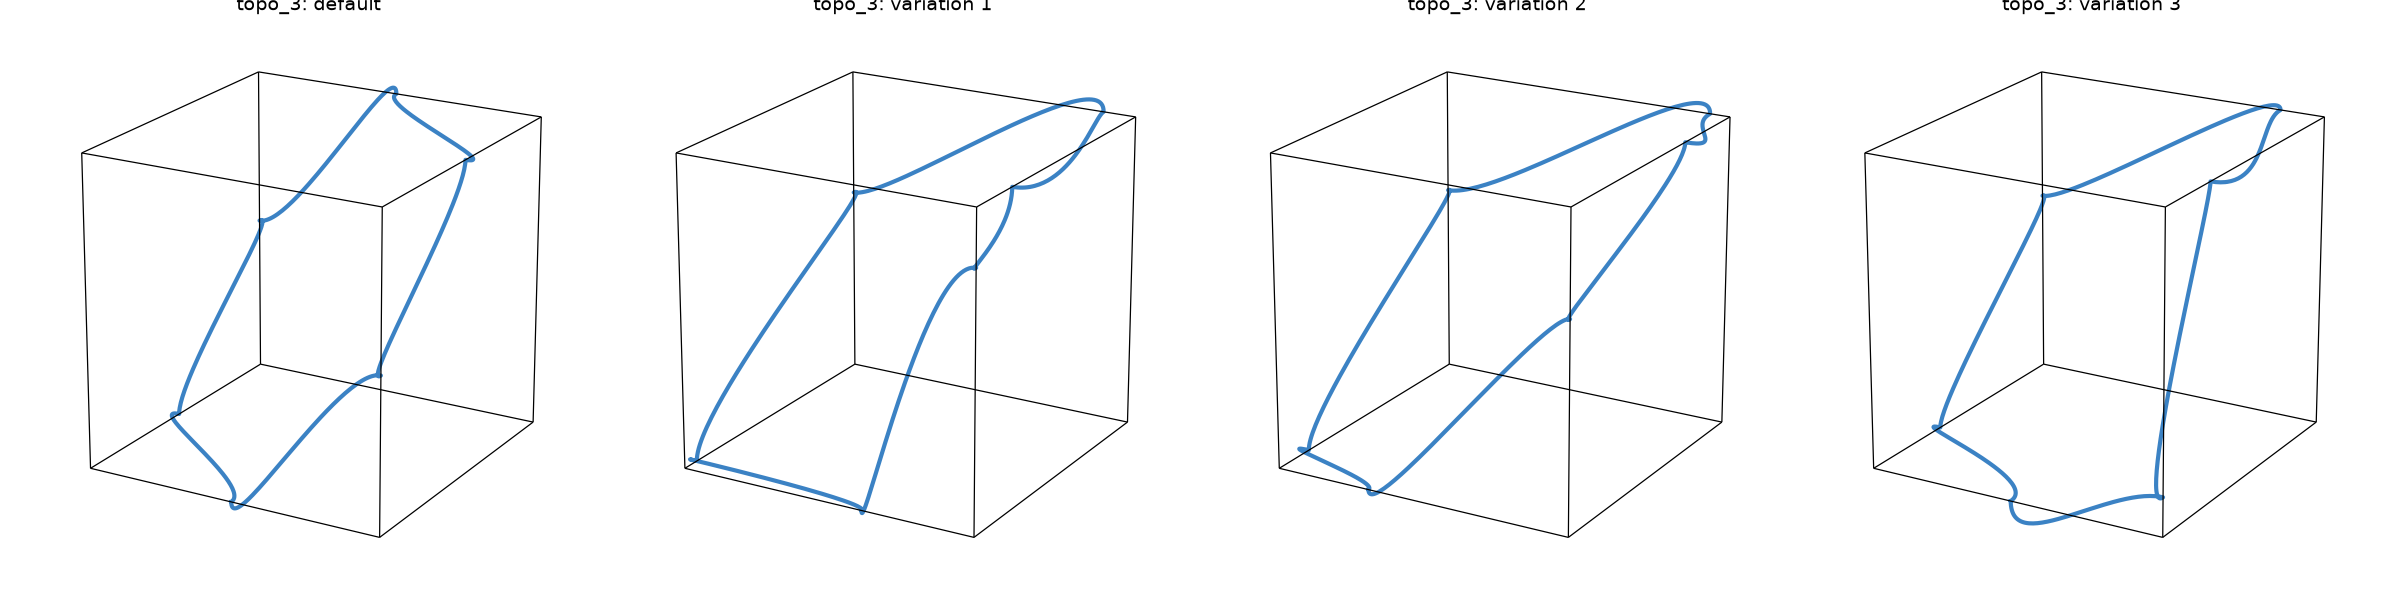
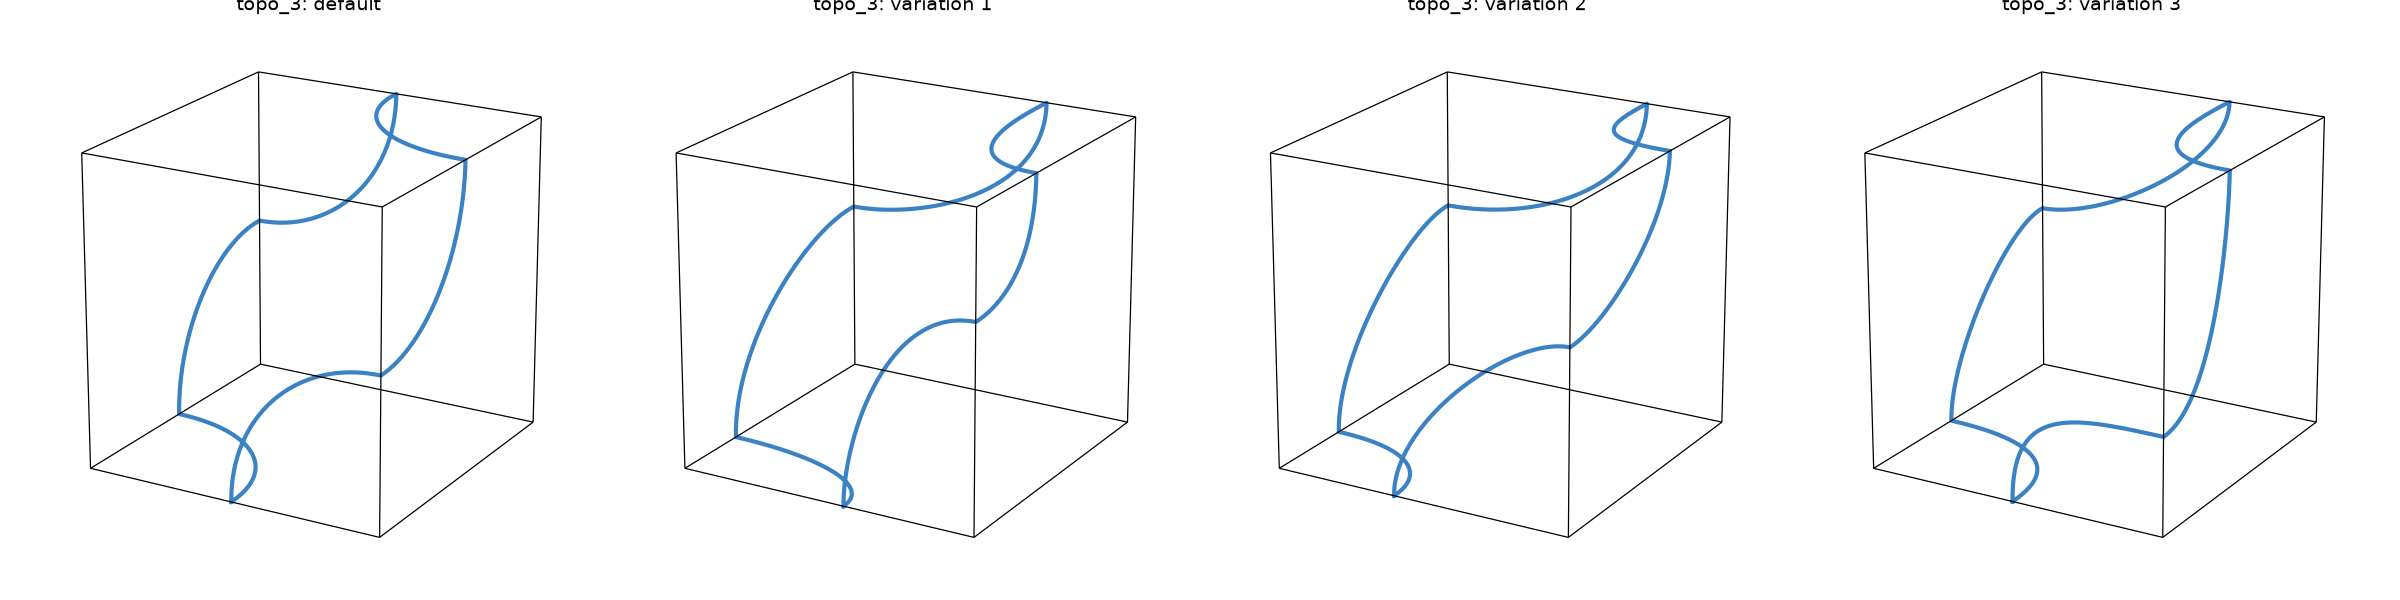
boundary curve added

diff --git a/TPMS/scripts/topo3_boundary_diagram.py b/TPMS/scripts/topo3_boundary_diagram.py
@@ -1,0 +1,159 @@
+"""topo_3 boundary-curve diagram, reproducing the paper's Fig. 6 construction.
+
+Pipeline (all from this repo's modules, which implement the paper directly):
+  tpms/topology.py  -- enumerate the 20 unique 1/8-cube topologies (Sec. 2.2)
+  tpms/spline.py    -- cubic Hermite curve, paper Eq. 2
+  tpms/boundary.py  -- per-node position/derivative parameters (Sec. 2.2
+                       "Boundary geometric variation"), constrained exactly as
+                       the paper states: node position stays on its cube edge,
+                       derivatives stay tangent to the cube face.
+
+The construction, panel by panel:
+  1. Topology graph: each node is a boundary/cube-edge crossing, each arc a
+     face crossing, drawn as straight chords (paper Fig. 5 schematic style).
+  2. The same chords (grey, dashed) with the Hermite tangent vectors at every
+     node -- each perpendicular to that node's cube edge and tangent to the
+     face carrying the arc. These are what bend each straight chord into a
+     bulging arc; the resulting curve is drawn in blue over them.
+  3-4. Geometric variations, from sampling node positions/derivatives in the
+     paper's own Table A.1 ranges.
+
+topo_3 is one of only three 1/8-cube topologies (with topo_1 and topo_6) that
+the paper notes is triply periodic on its own (Sec. 2.2), and it is the
+topology behind the FRD-like shell-lattice family (topo_3_rrr, Fig. 10d).
+
+Usage:
+    python scripts/topo3_boundary_diagram.py
+"""
+import os
+import sys
+
+sys.path.insert(0, os.path.join(os.path.dirname(__file__), '..'))
+
+import matplotlib.pyplot as plt
+import numpy as np
+from mpl_toolkits.mplot3d.art3d import Line3DCollection
+
+from tpms import boundary as B
+from tpms import topology as T
+
+TOPO_INDEX = 3  # 1-indexed, matches out/topologies.png and paper Fig. 5
+
+CURVE_C = '#2f7fc1'
+CHORD_C = '#b0b0b0'
+NODE_C = '#c4453b'
+VEC_C = '#2e9e4f'
+
+
+def plot_cube(ax):
+    lines = [[T.VERTICES[a], T.VERTICES[b]] for a, b in T.EDGES]
+    ax.add_collection3d(Line3DCollection(lines, colors='black', linewidths=0.7))
+    ax.set_xlim(0, 1); ax.set_ylim(0, 1); ax.set_zlim(0, 1)
+    ax.set_box_aspect((1, 1, 1))
+    ax.set_axis_off()
+    ax.view_init(elev=20, azim=-60)
+
+
+def draw_nodes(ax, topo, params):
+    for e in topo.active_edges():
+        p = B.node_position(e, params[e].s)
+        ax.scatter(*p, color=NODE_C, s=30, depthshade=False, zorder=5)
+
+
+def draw_chords(ax, topo, params, **kw):
+    """Straight chords node->node: the topology graph before any curving."""
+    segs = []
+    for loop in B.find_loops(topo):
+        for i in range(len(loop)):
+            a, b = loop[i], loop[(i + 1) % len(loop)]
+            segs.append([B.node_position(a, params[a].s),
+                         B.node_position(b, params[b].s)])
+    ax.add_collection3d(Line3DCollection(segs, **kw))
+
+
+def draw_curve(ax, topo, params, lw=2.6):
+    for c in B.build_boundary_curves(topo, params, n_samples=96):
+        cc = np.concatenate([c, c[:1]], axis=0)
+        ax.plot(cc[:, 0], cc[:, 1], cc[:, 2], color=CURVE_C, linewidth=lw, zorder=4)
+
+
+def draw_tangents(ax, topo, params, scale=0.30):
+    """The Hermite tangent vectors (Eq. 2 d1/d2) at every node, i.e. the
+    vectors that bend each straight chord into its arc."""
+    for loop in B.find_loops(topo):
+        for i in range(len(loop)):
+            a, b = loop[i], loop[(i + 1) % len(loop)]
+            face = T.shared_face(a, b)
+            pa = B.node_position(a, params[a].s)
+            pb = B.node_position(b, params[b].s)
+            # emergent tangent at a (points into the face), incident tangent at
+            # b (still along direction of travel, so it points back out through
+            # b's cube edge) -- matching build_boundary_curves.
+            d1 = B.node_face_direction(a, face) * params[a].d_out
+            d2 = -B.node_face_direction(b, face) * params[b].d_in
+            for p, d in ((pa, d1), (pb, -d2)):
+                v = d * scale
+                ax.quiver(p[0], p[1], p[2], v[0], v[1], v[2], color=VEC_C,
+                          linewidth=1.5, arrow_length_ratio=0.3, zorder=6)
+
+
+def main():
+    reps, n_valid = T.enumerate_topologies(include_empty_face_state=False)
+    assert n_valid == 256 and len(reps) == 20, (
+        f"topology enumeration mismatch: {n_valid}/{len(reps)}, paper: 256/20")
+    topo = reps[TOPO_INDEX - 1]
+    n_nodes = len(topo.active_edges())
+    print(f"topo_{TOPO_INDEX}: {n_nodes} nodes, {len(topo.arcs)} arcs, "
+          f"{topo.n_loops()} loop(s); d_circular={B.D_CIRCULAR:.4f}")
+
+    default_params = B.default_params(topo)
+    rng = np.random.default_rng(3)
+
+    fig = plt.figure(figsize=(17, 4.6))
+
+    # (a) topology graph
+    ax = fig.add_subplot(1, 4, 1, projection='3d')
+    plot_cube(ax)
+    draw_chords(ax, topo, default_params, colors=CURVE_C, linewidths=2.2)
+    draw_nodes(ax, topo, default_params)
+    ax.set_title(f"(a) topo_{TOPO_INDEX} topology graph\n"
+                 f"{n_nodes} nodes, {len(topo.arcs)} arcs, {topo.n_loops()} closed loop",
+                 fontsize=9.5)
+
+    # (b) construction: chords + tangent vectors + resulting curve
+    ax = fig.add_subplot(1, 4, 2, projection='3d')
+    plot_cube(ax)
+    draw_chords(ax, topo, default_params, colors=CHORD_C, linewidths=1.2,
+                linestyles='dashed')
+    draw_tangents(ax, topo, default_params)
+    draw_curve(ax, topo, default_params)
+    draw_nodes(ax, topo, default_params)
+    ax.set_title("(b) Hermite construction (Eq. 2)\n"
+                 "tangent vectors bend each chord into an arc", fontsize=9.5)
+
+    # (c),(d) geometric variations
+    for i in range(2):
+        ax = fig.add_subplot(1, 4, 3 + i, projection='3d')
+        plot_cube(ax)
+        params = B.random_params(topo, rng)
+        draw_curve(ax, topo, params)
+        draw_nodes(ax, topo, params)
+        ax.set_title(f"({'cd'[i]}) geometric variation {i + 1}\n"
+                     "node positions + derivatives varied", fontsize=9.5)
+
+    fig.suptitle(
+        "topo_3 boundary curve construction (paper Sec. 2.2 \"Boundary geometric variation\", Eq. 2, Fig. 6)\n"
+        "Node positions constrained to their cube edge; derivatives constrained tangent to the cube face. "
+        "Parameter ranges from Table A.1.",
+        fontsize=11, y=1.04)
+    fig.tight_layout()
+
+    out = os.path.join(os.path.dirname(__file__), '..', 'out',
+                       'topo3_boundary_diagram.png')
+    os.makedirs(os.path.dirname(out), exist_ok=True)
+    fig.savefig(out, dpi=170, bbox_inches='tight')
+    print(f"Saved {out}")
+
+
+if __name__ == '__main__':
+    main()

diff --git a/TPMS/tpms/boundary.py b/TPMS/tpms/boundary.py
@@ -10,9 +10,15 @@ A.1: N position + 2N derivative parameters for N nodes):
     d_in   -- incident derivative magnitude (curve arriving at this node)
     d_out  -- emergent derivative magnitude (curve leaving this node)
 Derivative *directions* are fixed by convention to be perpendicular to the
-cube edge, tangent to the face, pointing into the face interior -- the
-standard convention for smoothly filleted corner curves and consistent with
-the bulging patch shapes in Fig. 6/8 of the paper.
+cube edge and tangent to the face containing the arc -- exactly the paper's
+stated constraint ("the derivatives are varied while being constrained to stay
+on the cube faces", Sec. 2.2). Because Eq. 2's d1 = P'(0) and d2 = P'(1) are
+both tangents *in the direction of travel*, the emergent derivative at the
+start node points into the face interior while the incident derivative at the
+end node points back out through that node's cube edge; see the sign flip in
+`build_boundary_curves`. With this convention an arc between two mid-edge
+nodes sharing a cube corner is an exact quarter circle at d = `D_CIRCULAR`,
+reproducing the strongly-bulging fillet arcs of the paper's Fig. 6.
 """
 import itertools
 from dataclasses import dataclass
@@ -77,8 +83,23 @@ def find_loops(topo: T.Topology):
     return loops
 
 
-def random_params(topo: T.Topology, rng=None, s_range=(-0.45, 0.45),
-                   d_range=(0.2, 0.6)):
+# Paper Table A.1 sets the 1/8 design space as a 2x2x2 mm cube, with node
+# position offsets in [-0.45, 0.45] mm and derivative magnitudes in [1.0, 2.0]
+# mm. Our 1/8 cube is the unit cube [0,1]^3, so those ranges scale by 1/2.
+S_RANGE = (-0.225, 0.225)
+D_RANGE = (0.5, 1.0)
+
+# A cubic Hermite arc joining two points at distance r from a shared cube
+# corner reproduces the quarter circle of radius r when the tangent magnitude
+# is 3 * (4/3)*(sqrt(2)-1)*r = 4*(sqrt(2)-1)*r ~= 1.657*r (the standard cubic-
+# Bezier circle approximation, converted from Bezier control-point offset to
+# Hermite tangent by the factor 3). For default mid-edge nodes r = 0.5, giving
+# ~0.828 -- the roundest arc this parameterization can make, and comfortably
+# inside the paper's own D_RANGE above.
+D_CIRCULAR = 4.0 * (np.sqrt(2.0) - 1.0) * 0.5
+
+
+def random_params(topo: T.Topology, rng=None, s_range=S_RANGE, d_range=D_RANGE):
     rng = rng or np.random.default_rng()
     params = {}
     for e in topo.active_edges():
@@ -90,7 +111,11 @@ def random_params(topo: T.Topology, rng=None, s_range=(-0.45, 0.45),
     return params
 
 
-def default_params(topo: T.Topology, s=0.0, d=0.4):
+def default_params(topo: T.Topology, s=0.0, d=None):
+    """Default geometry: nodes at cube-edge midpoints, tangent magnitudes set
+    to the value that makes each arc an exact quarter circle."""
+    if d is None:
+        d = D_CIRCULAR
     return {e: NodeParams(s=s, d_in=d, d_out=d) for e in topo.active_edges()}
 
 
@@ -108,8 +133,15 @@ def build_boundary_curves(topo: T.Topology, params, n_samples=64):
             pa, pb = params[a], params[b]
             p1 = node_position(a, pa.s)
             p2 = node_position(b, pb.s)
+            # Hermite tangents are both "direction of travel" along the curve
+            # (Eq. 2: d1 = P'(0), d2 = P'(1)). Leaving node `a` the curve heads
+            # *into* the face interior; arriving at node `b` it is still heading
+            # in its direction of travel, i.e. *out* through b's cube edge --
+            # hence the sign flip on d2. Using +into-face for d2 as well makes
+            # P'(1) point back the way the curve came, producing an S-hook at
+            # every arrival node and flattening the arc (see module docstring).
             d1 = node_face_direction(a, face_idx) * pa.d_out
-            d2 = node_face_direction(b, face_idx) * pb.d_in
+            d2 = -node_face_direction(b, face_idx) * pb.d_in
             t = np.linspace(0, 1, n_samples, endpoint=False)
             segs.append(spline.hermite_eval(p1, d1, p2, d2, t))
         curves.append(np.concatenate(segs, axis=0))

diff --git a/TPMS/tests/test_validation.py b/TPMS/tests/test_validation.py
@@ -30,6 +30,68 @@ def test_topology_loops_are_closed():
         assert all(d == 2 for d in degree.values())
 
 
+def test_boundary_arc_is_exact_quarter_circle():
+    """Eq. 2's d1=P'(0) and d2=P'(1) are both tangents in the direction of
+    travel. Regression guard for a sign error where d2 pointed back into the
+    face the curve came from, putting an S-hook at each arrival node and
+    flattening every arc toward its chord.
+
+    With the correct convention an arc between two mid-edge nodes sharing a
+    cube corner is the exact quarter circle through them at d = D_CIRCULAR.
+    """
+    from tpms import boundary as B
+    from tpms import spline
+
+    # z=0 face, corner (0,0,0): nodes at (0.5,0,0) and (0,0.5,0), both at
+    # radius 0.5 from the corner.
+    p1 = np.array([0.5, 0.0, 0.0])
+    p2 = np.array([0.0, 0.5, 0.0])
+    m = B.D_CIRCULAR
+    d1 = np.array([0.0, 1.0, 0.0]) * m      # leaves p1 into the face
+    d2 = np.array([-1.0, 0.0, 0.0]) * m     # arrives at p2 still travelling -x
+    c = spline.hermite_eval(p1, d1, p2, d2, np.linspace(0, 1, 400))
+    radius = np.linalg.norm(c[:, :2], axis=1)
+    assert np.abs(radius - 0.5).max() < 1e-3, (
+        f"arc deviates from the quarter circle by "
+        f"{np.abs(radius - 0.5).max():.4f}")
+
+
+def test_boundary_curves_are_closed_in_bounds_and_non_backtracking():
+    """Every topology's boundary curve must close up, stay inside the 1/8
+    cube, and have no arc that reverses against its own chord (the paper
+    assumes boundaries free from self-intersection, Sec. 2.2)."""
+    from tpms import boundary as B
+    from tpms import spline
+
+    reps, _ = T.enumerate_topologies(include_empty_face_state=False)
+    rng = np.random.default_rng(0)
+    for topo in reps:
+        for params in (B.default_params(topo), B.random_params(topo, rng)):
+            for curve in B.build_boundary_curves(topo, params, n_samples=128):
+                steps = np.linalg.norm(
+                    np.diff(np.vstack([curve, curve[:1]]), axis=0), axis=1)
+                # closed: the wrap-around step is just another sampling step
+                assert steps.max() < 3 * np.median(steps), "curve is not closed"
+                assert curve.min() > -1e-9 and curve.max() < 1 + 1e-9, \
+                    "curve leaves the 1/8 cube"
+
+            for loop in B.find_loops(topo):
+                for i in range(len(loop)):
+                    a, b = loop[i], loop[(i + 1) % len(loop)]
+                    face = T.shared_face(a, b)
+                    pa = B.node_position(a, params[a].s)
+                    pb = B.node_position(b, params[b].s)
+                    da = B.node_face_direction(a, face) * params[a].d_out
+                    db = -B.node_face_direction(b, face) * params[b].d_in
+                    _, C1, C2, C3 = spline.hermite_coeffs(pa, da, pb, db)
+                    t = np.linspace(0, 1, 200)[:, None]
+                    deriv = C1 + 2 * C2 * t + 3 * C3 * t ** 2
+                    chord = pb - pa
+                    proj = deriv @ (chord / np.linalg.norm(chord))
+                    assert proj.min() >= 0, \
+                        f"arc {a}->{b} backtracks against its chord"
+
+
 def test_homogenization_recovers_base_material_on_solid_cube():
     density = np.ones((8, 8, 8))
     CH = H.homogenize(density, E0=1.0, nu0=0.3, cell_size=2.0)

diff --git a/TPMS/PROGRESS.md b/TPMS/PROGRESS.md
@@ -13,7 +13,7 @@ A full-pipeline reimplementation in `research/TPMS/`, covering every stage of th
 | Stage | Status | Key validation |
 |---|---|---|
 | **Boundary topology enumeration** (1/8-cube graph search) | Done | Finds exactly **256** raw candidate topologies and **20** unique ones after symmetry reduction — matches the paper's reported counts exactly |
-| **Hermite-spline boundary geometry** + unit-cell symmetry synthesis | Done | Produces smooth, closed boundary curves; visually consistent with paper Fig. 6 |
+| **Hermite-spline boundary geometry** + unit-cell symmetry synthesis | Done (**corrected 2026-08-20**, see §4) | Arcs are now exact quarter circles at the default derivative magnitude (0.000 radial deviation), matching Fig. 6's bulging fillets; all 20 topologies verified closed, in-bounds, non-backtracking |
 | **Classical TPMS surfaces** (P, D, G, I-WP, F-RD, Neovius) | Done | Used as the comparison baseline, exactly as in the paper's Sec. 3 |
 | **Neural minimal-surface solver** (geometric-measure-theory "current" loss + C¹ boundary continuity) | Working, convergence is topology-dependent | Validated against a known ground truth (a flat disk spanning a circle) before being applied to cube topologies |
 | **Mesh extraction, unit-cell tiling, shell construction** | Working | Produces closed(-ish) periodic shell meshes; simple topologies tile cleanly, complex multi-loop ones need more training (see §3) |
@@ -29,6 +29,7 @@ All in `research/TPMS/`:
 - `README.md` — full writeup, including an honest account of every place an implementation choice had to be made because the paper's text underdetermines it
 - `out/topologies.png` — the 20 enumerated boundary topologies (reproduces Fig. 5)
 - `out/boundary_topo1.png`, `out/boundary_topo3.png` — example spline geometry variations (Fig. 6 style)
+- `out/topo3_boundary_diagram.png` (`scripts/topo3_boundary_diagram.py`) — topo_3 specifically, in 4 panels: (a) the topology graph as straight chords (matches `topologies.png`/Fig. 5), (b) the Hermite construction showing the tangent vector at every node bending each chord into its arc, (c)(d) geometric variations sampled from Table A.1's ranges. topo_3 is one of only 3 topologies (with topo_1, topo_6) the paper notes are triply periodic on their own, and is the FRD-like family's topology (`topo_3_rrr`, paper Fig. 10d).
 - `out/classical_survey.png` — E–ν space and density scaling for all 6 classical TPMS surfaces (Fig. 12/16 style)
 - `out/gan/training_summary.png` — inverse-design GAN training curves and target-vs-generated property fit
 - `tests/test_validation.py` — runnable checks reproducing all the validation numbers above (`python tests/test_validation.py`)
@@ -47,3 +48,21 @@ All in `research/TPMS/`:
 Once (1)–(2) above are in a good state, the natural next phase is to go beyond reproduction: sweep the 20 topologies × their geometric parameter spaces × symmetry codes far more broadly than the paper did, screen the resulting structures' homogenized properties for interesting/novel regions of E–ν–Zener space (e.g., extremal stiffness-to-density ratios, near-perfect isotropy, or property combinations the paper's 5 topology families didn't cover), and use the inverse-design GAN (once trained on our own family) to search that space directly from target properties rather than by hand. The pipeline needed for this is complete; what's missing is compute time to run it broadly and a decision on which regions of the design space to prioritize.
 
 **Main ask:** more GPU time for per-topology training (each structure takes minutes-to-tens-of-minutes to converge well) if we want to explore the space broadly rather than one topology at a time.
+
+---
+
+## 4. Correction, 2026-08-20: boundary-curve sign error
+
+**All boundary curves generated before this date were wrong**, across all 20 topologies.
+
+**The bug.** Paper Eq. 2 defines the cubic Hermite curve by `d1 = P'(0)` and `d2 = P'(1)` — both tangents *in the direction of travel*. `tpms/boundary.py: build_boundary_curves` set the end tangent `d2` to point *into the face interior*, i.e. back the way the curve had come. Every arc therefore got an S-hook at its arrival node and was pulled flat toward its straight chord, instead of bulging into the fillet arcs the paper shows in Fig. 6. Diagnostic: under the old sign **368 of 368 arcs backtracked against their own chord**; under the fix, zero do.
+
+**Why it went unnoticed.** It was self-consistent and produced plausible-looking closed curves, and the test suite had no boundary-geometry coverage at all — it tested topology counts, homogenization and curvature, but never the curve shapes. The flattening was also mis-diagnosed and written up in `README.md` fidelity note #2 as the paper's own Table A.1 derivative magnitudes "overshooting badly", which motivated empirically re-tuned defaults (~0.2–0.6) that partly hid the symptom.
+
+**The fix** (`tpms/boundary.py`): flip the sign of `d2`. With that, an arc between two mid-edge nodes sharing a cube corner is the *exact* quarter circle through them at `d = 4(√2−1)r ≈ 0.828` (`D_CIRCULAR`; verified to 0.000 max radial deviation), and the paper's own Table A.1 ranges now work directly — position `[-0.45, 0.45]` mm and derivative `[1.0, 2.0]` mm on the paper's 2 mm 1/8-cube scale to `S_RANGE = (-0.225, 0.225)`, `D_RANGE = (0.5, 1.0)` on our unit cube. So fidelity note #2's claimed deviation from the paper was never real; the README has been corrected.
+
+**Note on the cusps.** Where two arcs meet at a node the curve has a sharp corner, because the arriving and leaving tangents lie in two perpendicular cube faces. This is correct and matches the paper — the same cusps are visible in its Fig. 6, clearest at the bottom-centre node of Fig. 6(c). They are not self-intersections.
+
+**Regression coverage added** (`tests/test_validation.py`): `test_boundary_arc_is_exact_quarter_circle` and `test_boundary_curves_are_closed_in_bounds_and_non_backtracking` (the latter sweeps all 20 topologies at both default and random parameters). Both were confirmed to fail under the old sign. Full suite: 7/7 pass.
+
+**Downstream impact — not yet redone.** `tpms/train_minimal.py` consumes `build_boundary_curves`, so **every neural surface, extracted mesh, and shell lattice trained before this date was fitted to the flattened boundary** and should be regarded as invalid. Regenerated so far: `out/topologies.png`, `out/boundary_topo1.png`, `out/boundary_topo3.png`, `out/topo3_boundary_diagram.png`. Still to redo once GPU time is available: the trained surfaces behind §3(1)–(2). The homogenization numbers quoted in §1 are unaffected — they come from the *classical* implicit TPMS surfaces (Eq. 1), which never touch this code path, as does the GAN's stand-in dataset.

diff --git a/TPMS/README.md b/TPMS/README.md
@@ -118,15 +118,32 @@ called out in the relevant module's docstring too.
    all 6 faces combinatorially even though the rendered curve looks simple).
 
 2. **Hermite-spline node derivatives are scalars along a fixed, convention-
-   chosen direction** (perpendicular to the cube edge, tangent to the face,
-   pointing into the face interior), not free 2D vectors. The paper's own
-   parameter count (Fig. 9/A.22: "twelve derivative parameters" for six
-   nodes = 2 scalars/node) implies the same reduction, but the paper doesn't
-   spell out the direction convention we chose. Table A.1's raw derivative
-   magnitudes ([1,2] on a 2-unit cube) overshoot badly with our exact
-   Hermite formula (Eq. 2) on a 1-unit 1/8-cube domain -- we use empirically
-   re-tuned defaults (~0.2-0.6) that keep curves inside the cube; see the
-   `default_params`/`random_params` docstrings in `tpms/boundary.py`.
+   chosen direction** (perpendicular to the cube edge, tangent to the face
+   carrying the arc), not free 2D vectors. The paper's own parameter count
+   (Fig. 9/A.22: "twelve derivative parameters" for six nodes = 2
+   scalars/node) implies the same reduction, and the paper constrains the
+   directions only as "constrained to stay on the cube faces" (Sec. 2.2), so
+   the perpendicular-to-edge choice is ours.
+
+   **Corrected 2026-08-20.** This previously read that Table A.1's derivative
+   magnitudes "overshoot badly" and used empirically re-tuned defaults of
+   ~0.2-0.6. That was wrong, and it was masking a sign error: Eq. 2's `d1 =
+   P'(0)` and `d2 = P'(1)` are both tangents *in the direction of travel*,
+   but `build_boundary_curves` had `d2` pointing into the face interior (the
+   direction the curve came *from*). That put an S-hook at every arrival node
+   and flattened each arc toward its chord, which is what made large
+   magnitudes look like overshoot. With the sign fixed, an arc between two
+   mid-edge nodes sharing a cube corner is an *exact* quarter circle at
+   d = 4(sqrt(2)-1)r ~= 0.828 (`boundary.D_CIRCULAR`, verified numerically to
+   0.000 max radial deviation), and Table A.1's own ranges work directly:
+   position [-0.45, 0.45] mm and derivative [1.0, 2.0] mm on the paper's
+   2 mm 1/8-cube scale to `S_RANGE = (-0.225, 0.225)` and `D_RANGE =
+   (0.5, 1.0)` on our unit cube. The resulting arcs reproduce the strongly
+   bulging fillets of Fig. 6; the sharp cusps where two arcs meet at a node
+   are present in the paper's Fig. 6 too (clearest at the bottom-centre node
+   of Fig. 6(c)) and are not self-intersections -- no arc backtracks against
+   its own chord. Note this bug fed `tpms/train_minimal.py`, so any neural
+   surface trained before this date used the flattened boundary.
 
 3. **C1 continuity constraints (Eq. 4/5) are applied per-axis based on that
    axis's own symmetry label**, not to a face independently chosen from the
